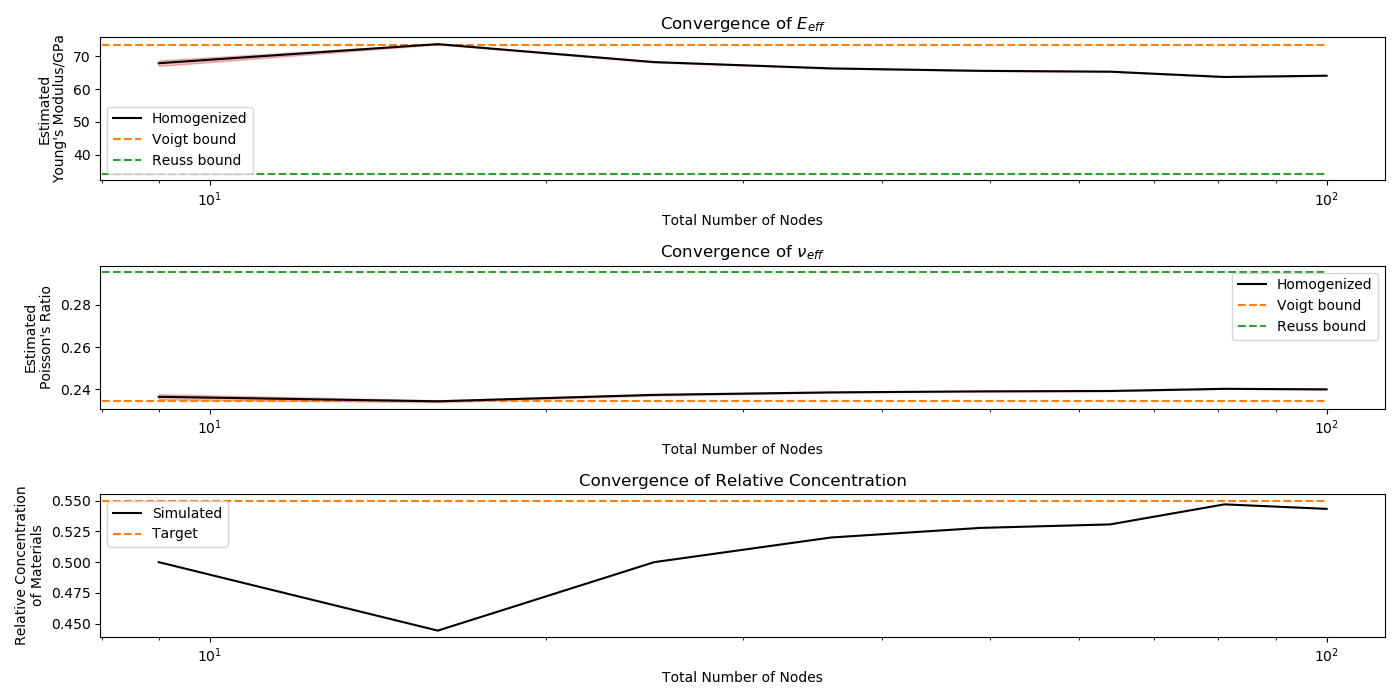
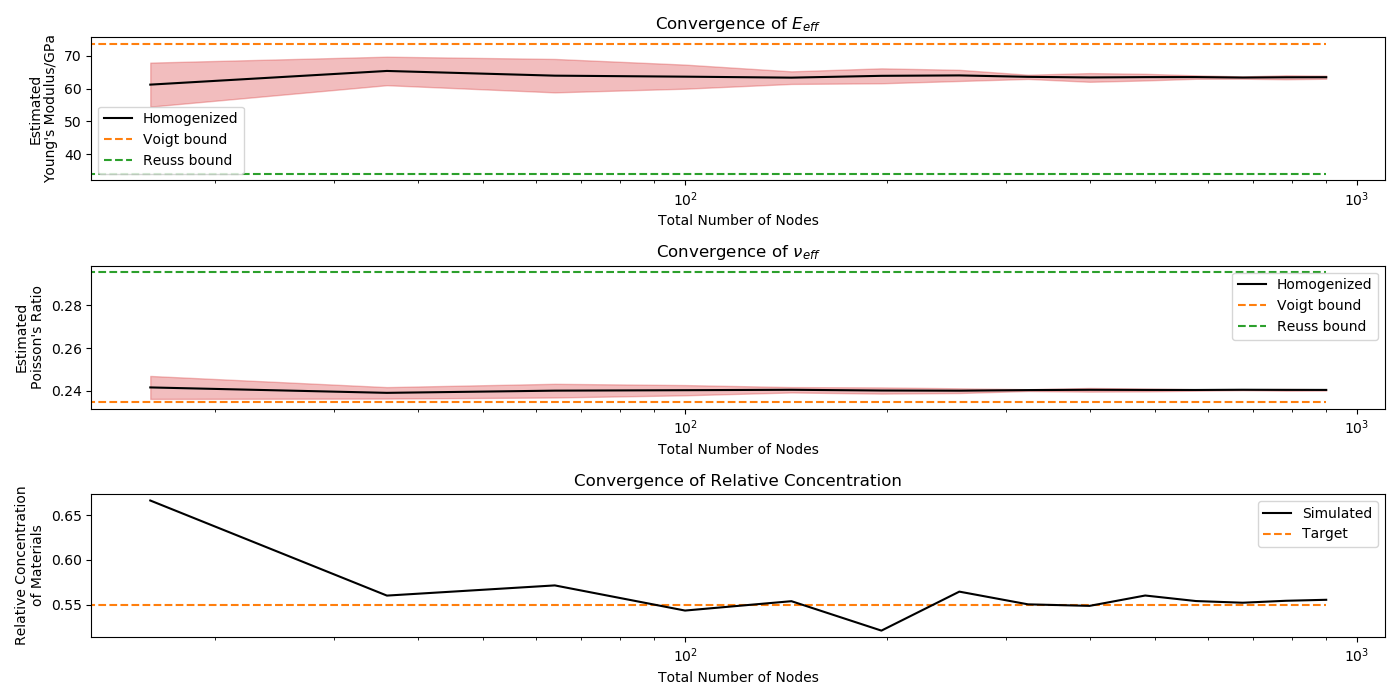
Mesh density convergence

diff --git a/PlottingUtils.py b/PlottingUtils.py
@@ -9,7 +9,7 @@ def int_logscale(max_n):
     init_scale = np.logspace(np.log10(3), np.log10(max_n), num=30)
     return np.unique(init_scale.astype(int))
 
-def Converge(mat_1_params=[10E9, 0.32], mat_2_params=[80E9, 0.22], rel_conc=0.55, nxs=np.arange(3, 11), num_candidates=15):
+def Converge(mat_1_params=[10E9, 0.32], mat_2_params=[80E9, 0.22], rel_conc=0.55, nxs=np.array([4, 8, 16, 32, 64, 96]), num_candidates=10):
     E_1, nu_1 = mat_1_params
     E_2, nu_2 = mat_2_params
 
@@ -30,7 +30,7 @@ def Converge(mat_1_params=[10E9, 0.32], mat_2_params=[80E9, 0.22], rel_conc=0.55
     for i in tqdm(range(len(nxs)), desc="Running through nx values"):
         nx = nxs[i]
         for j in tqdm(range(num_candidates), desc="Testing ensemble of Meshes", leave=False):
-            mesh = MicroMesh(nx, nx, E_1, E_2, nu_1, nu_2, rel_conc)
+            mesh = MicroMesh(nx, nx, E_1, E_2, nu_1, nu_2, rel_conc, micro_fun=circles_microstructure)
             solver = MicroSolver(mesh)
             temp_Cs[j, :, :] = solver.homogenize()
             E_tmp[j], nu_tmp[j] = solver.infer_props()
@@ -136,29 +136,29 @@ def plot_c_converge(Cs, C_errs, Es, E_errs, nus, nu_errs, real_concs, nnodes, ma
     plt.tight_layout()      
     plt.savefig("E_convergence.png")
 
-def sens_analysis(n=35, steps=np.array([10E7, 80E7, 0.0032, 0.0022, 0.006]), x_opt=np.array([10E9, 80E9, 0.32, 0.22, 0.55])):
+def sens_analysis(n=35, steps=np.array([10E7, 80E7, 0.0032, 0.0022, 0.006]), x_opt=np.array([10E9, 80E9, 0.32, 0.22, 0.55]), candidates = 5):
     def central_difference(Q_1, Q_2, step):
         return (Q_2 - Q_1)/(2*step)
 
     Q_grads = np.zeros((steps.shape[0], 3, 3))
+    for c in range(candidates):
+        for i in tqdm(range(steps.shape[0]), desc="Generating Sens for parameters"):
+            x = x_opt
+            x[i] -= steps[i]
 
-    for i in tqdm(range(steps.shape[0]), desc="Generating Sens for parameters"):
-        x = x_opt
-        x[i] -= steps[i]
+            mesh = MicroMesh(n, n, *x)
+            solver = MicroSolver(mesh)
+            Q_1 = solver.homogenize()
 
-        mesh = MicroMesh(n, n, *x)
-        solver = MicroSolver(mesh)
-        Q_1 = solver.homogenize()
+            x = x_opt
+            x[i] += steps[i]
 
-        x = x_opt
-        x[i] += steps[i]
+            mesh = MicroMesh(n, n, *x)
+            solver = MicroSolver(mesh)
+            Q_2 = solver.homogenize()
 
-        mesh = MicroMesh(n, n, *x)
-        solver = MicroSolver(mesh)
-        Q_2 = solver.homogenize()
-
-        Q_grads[i, :, :] = central_difference(Q_1, Q_2, steps[i]) * x_opt[i] # Scaled Sensitivities
-    return Q_grads
+            Q_grads[i, :, :] += central_difference(Q_1, Q_2, steps[i]) * x_opt[i] # Scaled Sensitivities
+    return Q_grads/candidates
 
 
 def plot_sens(Q_grads):
@@ -239,11 +239,11 @@ def plot_RVE(Cs, C_errs, num_circs, voigt_C, reuss_C):
     plt.savefig("RVE_converge.png")
 
 
-# props = Converge()
-# plot_c_converge(*props)
+props = Converge()
+plot_c_converge(*props)
 
 # Q_grad = sens_analysis()
 # plot_sens(Q_grad)
 
-props = RVE_analysis()
-plot_RVE(*props)
+# props = RVE_analysis()
+# plot_RVE(*props)

diff --git a/MicroMesh.py b/MicroMesh.py
@@ -25,7 +25,7 @@ def random_microstructure(els, vol_frac, E1, nu1, **kwargs):
   return els
 
 
-def circles_microstructure(els, vol_frac, E1, nu1, num_circ=1, **kwargs):
+def circles_microstructure(els, vol_frac, E1, nu1, num_circ=1, offset=1/12, **kwargs):
   area_per_circ = vol_frac / num_circ
   circ_rad = np.sqrt(area_per_circ / np.pi) # Radius of each circle in microstructure
   circ_per_side = int(np.sqrt(num_circ))
@@ -36,6 +36,7 @@ def circles_microstructure(els, vol_frac, E1, nu1, num_circ=1, **kwargs):
   for i in range(circ_per_side):
     for j in range(circ_per_side):
       center = np.array([coords[i], coords[j]])
+      center += np.random.rand(2) * (circ_rad * 2 * offset) - (circ_rad * offset)
       mat_1_elements = np.where(np.sum((COMs - center)**2, axis=1) < circ_rad**2)
       for el in els[mat_1_elements]:
         el.E = E1
@@ -295,6 +296,7 @@ class MicroSolver(FEM):
 # E_2, nu_2 = mat_2_params
 
 
-# mesh = MicroMesh(50, 50, E_1, E_2, nu_1, nu_2, rel_conc, micro_fun=circles_microstructure, num_circ=num_circ)
-# print(np.sum([el.E == mesh.E1 for el in mesh.ELS])/len(mesh.ELS))
+# mesh = MicroMesh(96, 96, E_1, E_2, nu_1, nu_2, rel_conc, micro_fun=circles_microstructure)
 # mesh.plot()
+# solver = MicroSolver(mesh)
+# print(solver.homogenize())
